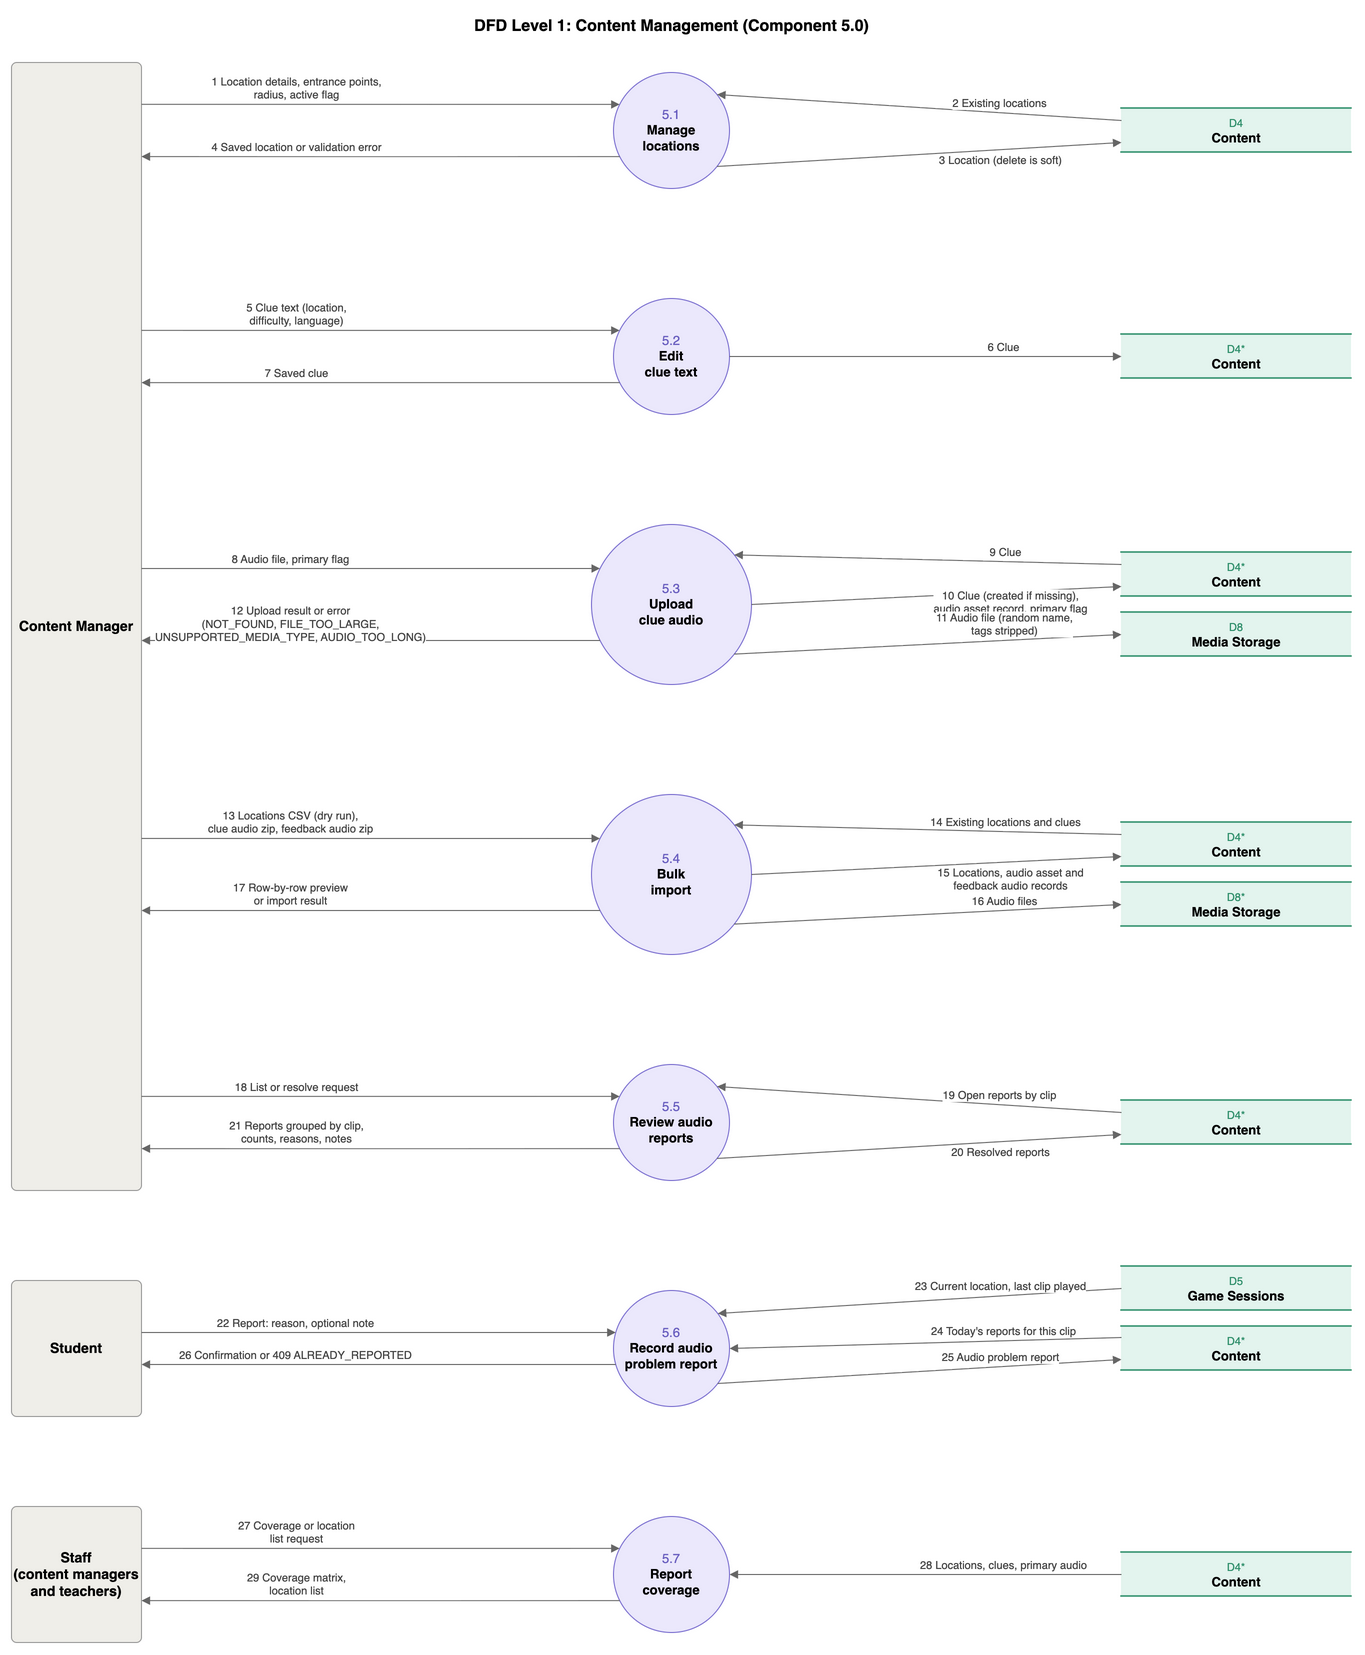
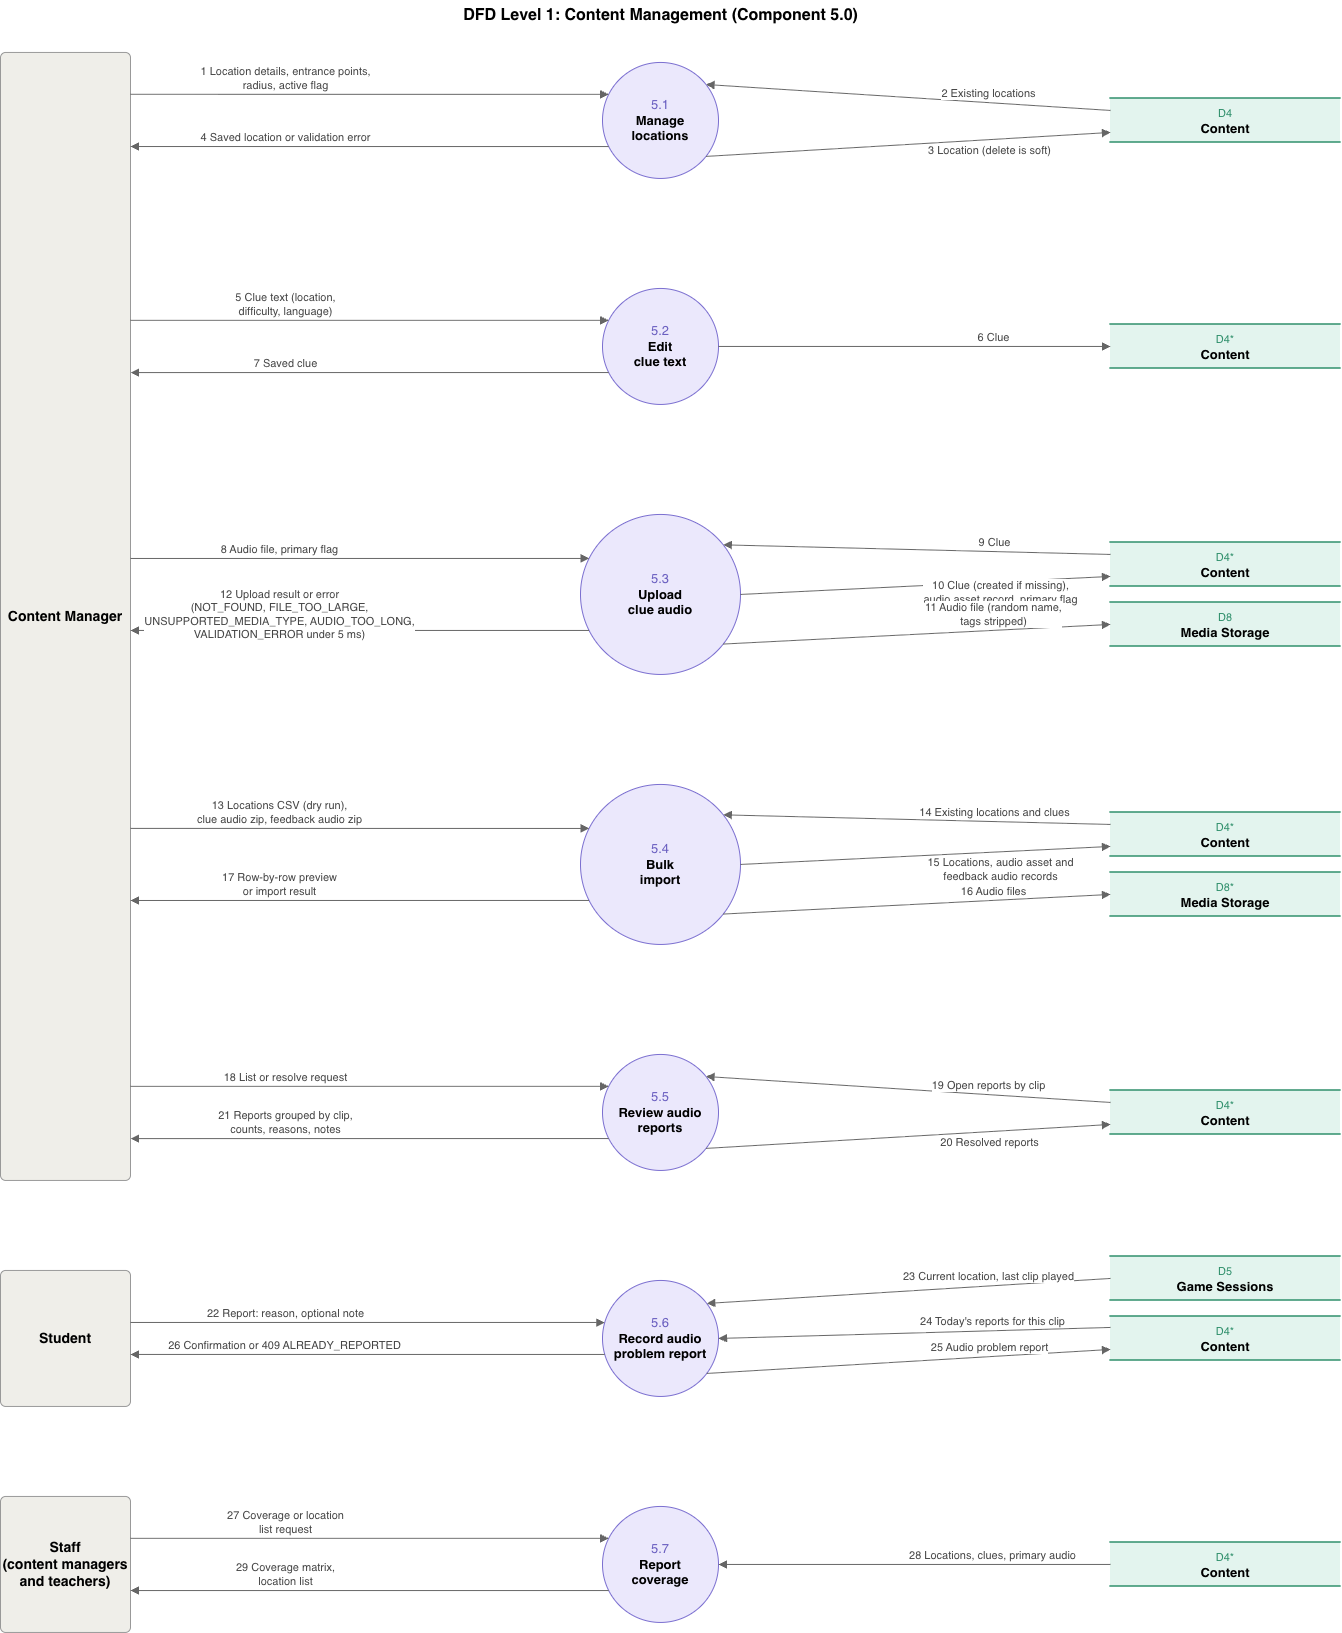
docs: add week 9 team log (#333)
* docs: add week 9 team log

* docs: update week 9 team log

diff --git a/logs/team/week-9.md b/logs/team/week-9.md
@@ -1,0 +1,111 @@
+# Week 9 Team Log (Nov. 2 - Nov. 8)
+
+Authors: Mia Kuang
+
+This week, we finished the Stage 1 navigation work (A19), merged the student endpoints for points, levels and achievements (A12) and the first A20 content routes, added the sign-in follow-ups and global rate limiting (A2), and started the account routes for logout, profile and password change. We also discussed the demo for the client on Discord and wrote a first proposal for the student game screens. No frontend code has been written yet.
+
+The work was distributed so that (PRs merged into main this week are listed first, then PRs opened this week that were not merged by the end of the week):
+
+- **Mia** worked on GPS navigation and arrival confirmation (A19) and the GPS replay script (#46).
+  - *Merged:* A19 #305-#310 (parts 1-6) and the three follow-up fixes #318, #319, #320. The work added the pure Stage 1 navigation rules, weak GPS and speed-flag handling, `GET /games/{id}/current-location`, `POST /games/{id}/navigation/ping`, `POST /games/{id}/navigation/confirm-arrival`, and Postgres race tests for overlapping pings, confirmations, shuffles, quits and deactivated locations.
+  - *Opened this week:* #318, #319, #320 (all merged), and #326, #327.
+  - *Not merged yet:* #326 and #327, the GPS replay script for walking routes and the tests that replay routes against the real routes (#46 parts 1 and 2).
+
+- **Fabiha** worked on points, levels and achievements (A12).
+  - *Merged:* #298 (student points and level endpoint), #299 (student achievements endpoint) and #300 (`score_finalized_location`, the shared function that finalizes a location's score for the game).
+  - *Opened this week:* none. Her A12 PRs were opened earlier and reviewed and merged this week.
+
+- **Eddy** worked on content management (A20).
+  - *Merged:* #292, #293, #295, the routes for locations, clue text, and clue audio upload and coverage.
+  - *Opened this week:* #321, which refuses a ZIP whose list of files is too long before reading it. It has changes requested.
+  - *Not merged yet:* #321, #296 (request-body size middleware), #301 and #303 (the routes for the locations CSV and audio ZIP imports, with the concurrent-import fixes) and #304 (the concurrency tests).
+
+- **Kaedyn** worked on accounts (A2, A22, A24).
+  - *Merged:* #286 (sign-in follow-ups) and #314 (rate limiting). #286 added refresh token rotation with a 30-second grace window, so two tabs refreshing together are not signed out, revokes the whole token family when an old token is reused, and runs a dummy password check for unknown emails and over-long passwords so timing does not reveal why a login failed. #314 added the slowapi limiter with a global limit shared by all routes and a login limit per email and IP, a 429 error, and exempts `/health`.
+  - *Opened this week:* #323 (user logout, A22), #324 (`GET /me/profile`, A24), #325 (change password) and #328 (rate-limit tests). #323 is `POST /auth/logout`, which revokes all of the user's refresh tokens and deletes the refresh cookie (an access token already issued keeps working until it expires). #324 returns the signed-in user's email, active classes and app settings. #325 is `POST /me/password`: it needs the current password, refuses a new password that breaks the rules or equals the old one, cancels unused reset and set-password links, revokes all refresh tokens and gives this device a new cookie. #328 tests the rate-limit defaults, that the global limit is shared by all routes, and the login limit per email and IP.
+  - *Not merged yet:* #323, #324, #325 and #328.
+
+Based on the PRs merged into main this week, we met the main goals for navigation and engagement:
+
+- **Game sessions:** A19 is on main. The game can serve the current location, process a GPS ping, and confirm arrival with a GPS override, and it refuses to confirm a deactivated location.
+- **Engagement:** the student endpoints for points, levels and achievements are merged, and the game can finalize a location's score through `score_finalized_location`. The photo verification step (A10) still needs to call it.
+- **Content:** the location, clue text and clue audio routes are merged. The upload limits and concurrent-import fixes are still open.
+- **Accounts:** the sign-in follow-ups and global rate limiting are merged. Logout, profile and change password are open.
+- **Still open:** the A20 request-body limits and concurrent-import fixes, the account routes (#323-#325, #328), and the GPS replay script (#326, #327).
+
+Many PRs were opened but not merged this week. Reviews took longer than we planned: #296, #301 and #321 have changes requested, #303 has comments, #304 is approved, #323–#325 have one approval and need a second, and #326–#328 were opened on Nov 8 and are waiting for review.
+
+The team collectively worked on the following to avoid duplicated logic, inconsistent state and unnecessary dependencies:
+
+- **Navigation rules kept pure (#305):** the distance and trend rules are plain functions with no database access, so GPS behaviour can be tested without waiting for real time. The routes only load the state, call the rules and save the result.
+- **One place for progress changes (#306-#309):** moving to the next location and skipping a deactivated location go through the same progress helpers, so the ping and confirm routes do not each have their own copy.
+- **Deactivated locations are refused consistently (#320):** ping and confirm both return 409 `STATE_CHANGED` for a location that was deactivated or is not navigating, and position is required on confirm.
+- **Safe overlapping requests (#310):** the race tests use separate Postgres connections to check pings, confirmations, shuffles and quits that overlap.
+- **One scoring entry point (#300):** `score_finalized_location` lets the game finalize a location's score through the engagement interface instead of repeating the points rules, and it reuses the shared location completion points constant.
+- **Shared validation in content routes (#292, #293, #295):** the routes call the existing content services for validation and audio checks and do not repeat those rules.
+
+These changes keep each rule inside the component that owns it: game session transitions in game, points and achievements in engagement, authentication in accounts, and content validation in content.
+
+## Test results
+
+GitHub Actions could not run this week because of the organization's billing, so we ran the CI checks locally on the merged main branch: `ruff check`, `ruff format --check`, `mypy` and `pytest --cov=app`. All of them pass. pytest reports 1470 passed, 5 skipped, and 99% coverage of `app`. We changed our collaboration process so that the CI check is no longer required to merge, and each author posts their local `ruff`, `mypy` and `pytest` results as a comment on the PR before it is merged. The reason we did this is that GitHub Actions jobs could not start because of the organization's billing issue, so no PR could get a CI result. We considered waiting for the billing issue to be fixed, but that would have blocked every merge this week.
+
+![pytest on main](img/pytest-main-week9.png)
+
+## Client demo discussion
+
+This week we discussed the demo for the client on Discord. We have not written any frontend code or opened any frontend PR yet. The discussion produced a first proposal for the student game screens, written from a clickable demo that Mia built. It is a proposal and has not been agreed by the team yet.
+
+- **What the demo shows:** the whole student game flow in one clickable page: Home, Stage 1 (walking to the location), Stage 2 (taking the photo), Result and Summary, and the menu for Shuffle, Reset and Quit. It runs on a phone, and it has a simulator panel for walking speed, weak GPS, being inside the radius and the OCR result of the next photo. The demo page is a design reference only, not code for the app.
+- **Main idea:** replace the Stage 1 map, which only shows the student's own dot, with a pixel pet that walks with the student. The pet can be fed and cleaned, hatches and grows as the student walks, and gives them something to look at between locations without hinting where to go. The art is a small pixel grid with a 64x48 grid with a 3-4 colour LCD palette so people who are not artists can draw it.
+- **Rules the design keeps:** feedback that carries direction or distance (the `NAV_*` codes) is audio only, and nothing on screen changes with it, including the pet. The pet depends only on how far the student has walked, feeding and cleaning, never on the distance to the target. Weak GPS and the I'm here button can show on screen because they reveal no direction. No room number appears anywhere, including the camera guide.
+- **Backend mapping:** each screen maps to endpoints we already have or are building: the game status and shuffles (A8, A9), the current location, ping and confirm-arrival (A19), the photo verification (A10), engagement (A12, A14) and the summary (A23). Two gaps came up: no endpoint returns how many resets are left today, and the override time is server time, so the client should not compare it with its own clock.
+- **Spec changes this would need:** replace the Stage 1 map with the pet screen, decide where pet state lives (on the client first, in the backend later), make themes a profile preference (A24), add the two gaps above, and confirm with the client that hand-drawn pixel art counts as designed by the team.
+- **Alternative we considered:** keep a map. We did not choose it because a map showing only the student's position carries little information and looks like every other map app. If the team does not want the pet, the fallback idea is five cards where a shuffle redeals a card.
+- **Questions for the team and the client:** does the pet carry over between games or start as an egg each time, one theme per language or a student setting, and are feed and clean taps while walking too frequent. These need playtests.
+- **Proposed frontend issues:** Eleven issues (F0-F10) for Milestone 2: the spec change, the design system and app shell, the pet sprite engine, the game shell, the Stage 1 and Stage 2 screens, the pet mechanics, the result and summary, Home, the audio problem dialog and permissions onboarding. They have not been opened yet.
+
+## DFD
+
+With everyone's newly merged work for this week, three of the DFDs below are updated and marked **Updated**. The other merged PRs fill in processes and flows that were already drawn.
+
+### DFD Level 0
+
+Not changed.
+
+![DFD Level 0](img/dfd_level0_context.png)
+
+### DFD Level 1
+
+**1.0 Auth & Accounts (not changed)**
+
+![1.0 Auth & Accounts](img/dfd_level1_auth_accounts.png)
+
+**2.0 Game Session (Updated)**
+
+- Flow 19 (Student → 2.4 Confirm arrival): "optional position" changed to "position (required)". confirm-arrival now needs the position the app is confirming.
+- Flow 18 (2.3 → Student): the error list now reads "409 (incl. STATE_CHANGED) / 429 error". A ping on a location that was deactivated returns 409 `STATE_CHANGED` and writes nothing.
+- Flow 22 (2.4 → Student): the error now reads "409 error (incl. STATE_CHANGED)". Confirming a deactivated location, or a stale position, returns 409 `STATE_CHANGED` and writes nothing.
+- New flow 15a "Location active status": D4* Content → 2.3 Process GPS ping.
+- New flow 20a "Location active status": D4* Content → 2.4 Confirm arrival.
+- Layout: two new D4* Content stores, one in the 2.3 row and one in the 2.4 row. The D8* Media Storage store in the 2.4 row moved down to make room. These changes follow #320.
+
+![2.0 Game Session](img/dfd_level1_game_session.png)
+
+**3.0 Photo Verification (not changed)**
+
+![3.0 Photo Verification](img/dfd_level1_photo_verification.png)
+
+**4.0 Class & Engagement (Updated)**
+
+Flow 25 (Student → 4.6 Report engagement) now reads "Engagement (per language), badges or statistics request". `GET /me/engagement` returns points and level for one target language (#298).
+
+![4.0 Class & Engagement](img/dfd_level1_class_engagement.png)
+
+**5.0 Content Management (Updated)**
+
+Flow 12 (5.3 Upload clue audio → Staff) now includes "VALIDATION_ERROR under 5 ms" in the upload errors. A recording shorter than 5 ms is refused with 422 (#295).
+
+![5.0 Content Management](img/dfd_level1_content_management.png)
+
+Next week, we will get the open PRs reviewed and merged (A20, #323–#325, #328, #326 and #327), connect scoring to photo verification (A10), and decide with the team whether to go with the pet or the card design before opening F0.
